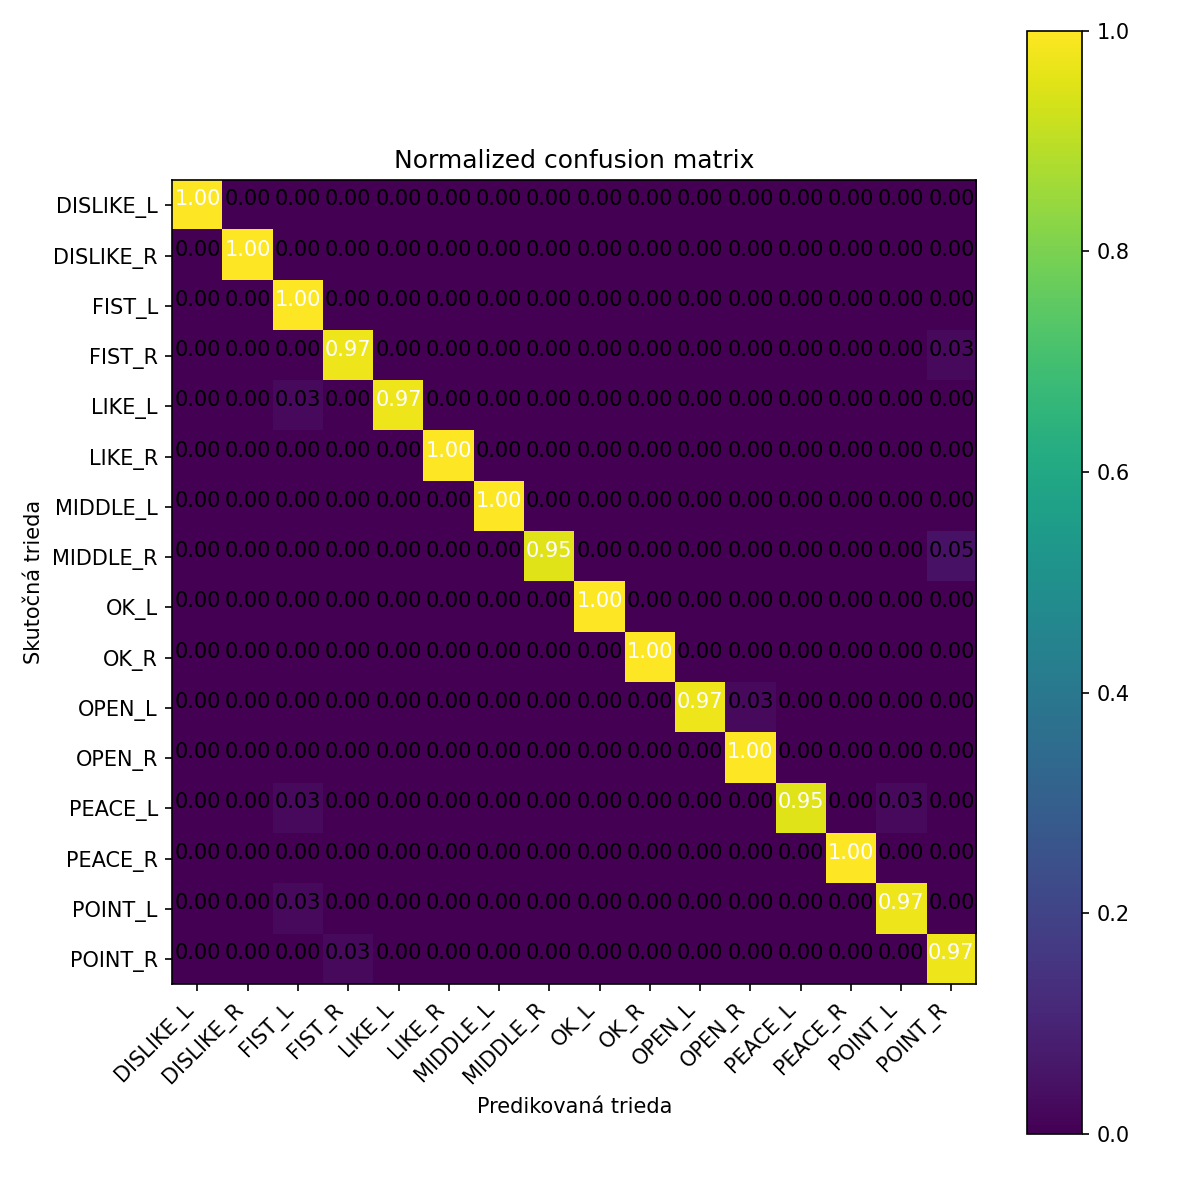
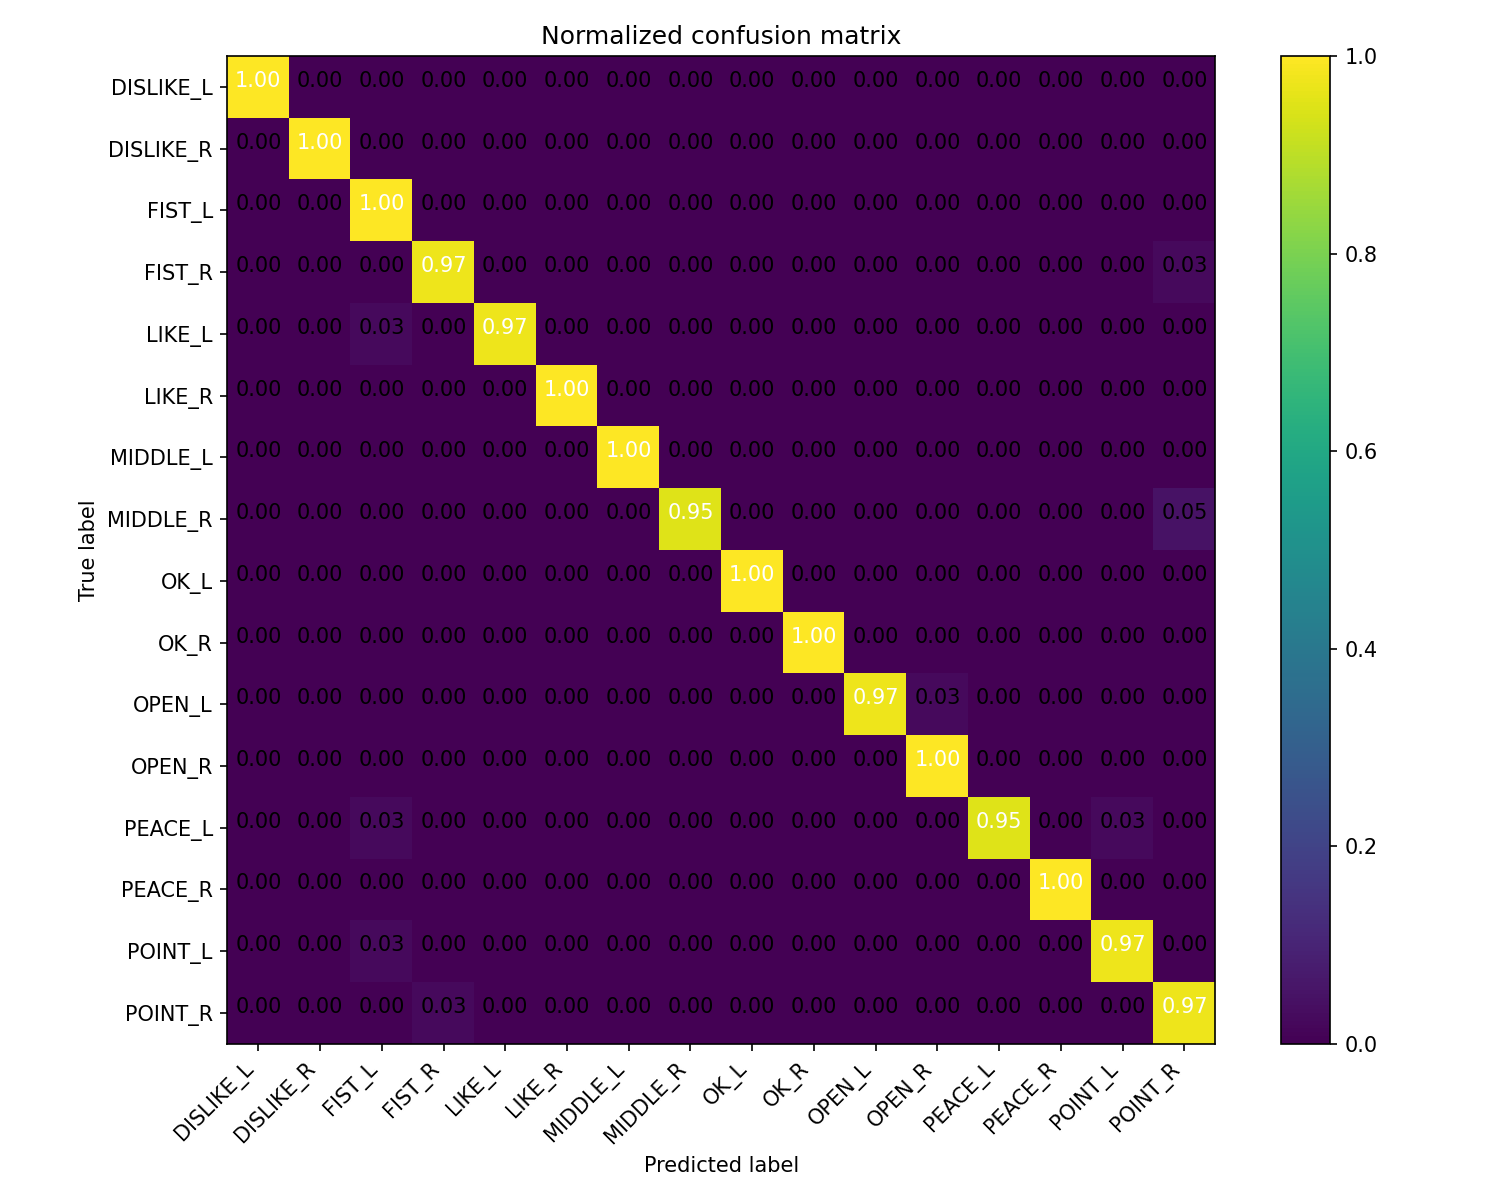
added evaluation code

Changed region(s): [[0.0, 0.0, 0.925, 0.9558], [0.4317, 0.9558, 0.5242, 0.9867]]

diff --git a/src/cnn/evaluate_cnn.py b/src/cnn/evaluate_cnn.py
@@ -1,0 +1,188 @@
+import os
+import numpy as np
+import pandas as pd
+import tensorflow as tf
+import joblib
+import matplotlib.pyplot as plt
+import itertools
+
+from sklearn.model_selection import train_test_split
+from sklearn.metrics import classification_report, confusion_matrix
+
+# =========================
+# PATHS (project structure)
+# code/
+#   data/data.csv
+#   models/gesture_cnn.h5
+#   models/gesture_cnn_labels.pkl
+#   reports/...
+#   src/cnn/evaluate_cnn.py
+# =========================
+BASE_DIR = os.path.dirname(os.path.abspath(__file__))
+
+DATA_PATH   = os.path.join(BASE_DIR, "..", "..", "data", "data.csv")
+MODELS_DIR  = os.path.join(BASE_DIR, "..", "..", "models")
+REPORTS_DIR = os.path.join(BASE_DIR, "..", "..", "reports")
+
+MODEL_FILE  = os.path.join(MODELS_DIR, "gesture_cnn.h5")
+LABELS_FILE = os.path.join(MODELS_DIR, "gesture_cnn_labels.pkl")
+
+CONFUSION_MATRIX_FIG = os.path.join(REPORTS_DIR, "confusion_matrix.png")
+CLASS_REPORT_TXT     = os.path.join(REPORTS_DIR, "classification_report.txt")
+
+os.makedirs(REPORTS_DIR, exist_ok=True)
+
+# =========================
+# SAFETY PRINTS
+# =========================
+print("DATA_PATH:", DATA_PATH)
+print("MODEL_FILE:", MODEL_FILE)
+print("LABELS_FILE:", LABELS_FILE)
+print("REPORTS_DIR:", REPORTS_DIR)
+
+if not os.path.exists(DATA_PATH):
+    raise FileNotFoundError(f"Dataset not found: {DATA_PATH}")
+
+if not os.path.exists(MODEL_FILE):
+    raise FileNotFoundError(f"Model not found: {MODEL_FILE}")
+
+if not os.path.exists(LABELS_FILE):
+    raise FileNotFoundError(f"Labels not found: {LABELS_FILE}")
+
+# =========================
+# LOAD DATA
+# =========================
+df = pd.read_csv(DATA_PATH)
+df = df.loc[:, ~df.columns.str.contains("^Unnamed")]
+
+feature_names = []
+for i in range(21):
+    feature_names += [f"x{i}", f"y{i}", f"z{i}"]
+
+missing = [c for c in feature_names + ["label"] if c not in df.columns]
+if missing:
+    raise ValueError(f"Missing columns in dataset: {missing}")
+
+X_raw = df[feature_names].astype(float).values
+y_str = df["label"].astype(str).values
+
+# =========================
+# RESHAPE + NORMALIZATION
+# =========================
+X = X_raw.reshape((-1, 21, 3))
+
+def preprocess_batch(X_in):
+    Xp = np.array(X_in, dtype=np.float32, copy=True)
+    wrist = Xp[:, 0:1, :]
+    Xp = Xp - wrist
+    norms = np.linalg.norm(Xp, axis=2)  # (N,21)
+    max_norm = np.max(norms, axis=1, keepdims=True)  # (N,1)
+    max_norm[max_norm < 1e-6] = 1e-6
+    Xp = Xp / max_norm[:, :, None]
+    return Xp
+
+X = preprocess_batch(X)
+
+# =========================
+# LABEL ENCODING (use saved order)
+# =========================
+label_payload = joblib.load(LABELS_FILE)
+classes = [c.strip() for c in label_payload["classes"]]  # clean
+class_to_idx = {c: i for i, c in enumerate(classes)}
+num_classes = len(classes)
+
+# clean dataset labels
+y_str = np.array([s.strip() for s in y_str], dtype=str)
+
+# filter out labels not present in trained classes (e.g., UNKNOWN mismatch)
+mask = np.array([lbl in class_to_idx for lbl in y_str], dtype=bool)
+
+missing_labels = sorted(set(y_str[~mask].tolist()))
+if len(missing_labels) > 0:
+    print("WARNING: These labels are in data.csv but NOT in model classes, they will be ignored:")
+    print(missing_labels)
+
+X = X[mask]
+y_str = y_str[mask]
+
+y_int = np.array([class_to_idx[lbl] for lbl in y_str], dtype=int)
+y_onehot = tf.keras.utils.to_categorical(y_int, num_classes=num_classes)
+
+# =========================
+# TRAIN / TEST SPLIT
+# =========================
+X_train, X_test, y_train, y_test, y_train_int, y_test_int = train_test_split(
+    X,
+    y_onehot,
+    y_int,
+    test_size=0.2,
+    random_state=42,
+    stratify=y_int
+)
+
+# =========================
+# LOAD MODEL
+# =========================
+model = tf.keras.models.load_model(MODEL_FILE)
+
+# =========================
+# PREDICT
+# =========================
+y_pred_proba = model.predict(X_test, verbose=0)
+y_pred_int = np.argmax(y_pred_proba, axis=1)
+
+# =========================
+# CLASSIFICATION REPORT
+# =========================
+report = classification_report(
+    y_test_int,
+    y_pred_int,
+    target_names=classes,
+    digits=3
+)
+
+print("=== CLASSIFICATION REPORT ===")
+print(report)
+
+with open(CLASS_REPORT_TXT, "w", encoding="utf-8") as f:
+    f.write(report)
+
+# =========================
+# CONFUSION MATRIX (normalized)
+# =========================
+cm = confusion_matrix(y_test_int, y_pred_int)
+
+def plot_confusion_matrix(cm, classes, normalize=True, title="Normalized confusion matrix"):
+    if normalize:
+        cm = cm.astype("float") / cm.sum(axis=1, keepdims=True)
+
+    plt.figure(figsize=(10, 8))
+    plt.imshow(cm, interpolation="nearest")
+    plt.title(title)
+    plt.colorbar()
+
+    tick_marks = np.arange(len(classes))
+    plt.xticks(tick_marks, classes, rotation=45, ha="right")
+    plt.yticks(tick_marks, classes)
+
+    fmt = ".2f" if normalize else "d"
+    thresh = cm.max() / 2.0
+
+    for i, j in itertools.product(range(cm.shape[0]), range(cm.shape[1])):
+        plt.text(
+            j, i,
+            format(cm[i, j], fmt),
+            horizontalalignment="center",
+            color="white" if cm[i, j] > thresh else "black"
+        )
+
+    plt.ylabel("True label")
+    plt.xlabel("Predicted label")
+    plt.tight_layout()
+
+plot_confusion_matrix(cm, classes, normalize=True)
+plt.savefig(CONFUSION_MATRIX_FIG, dpi=150)
+plt.close()
+
+print(f"Saved confusion matrix -> {CONFUSION_MATRIX_FIG}")
+print(f"Saved classification report -> {CLASS_REPORT_TXT}")
